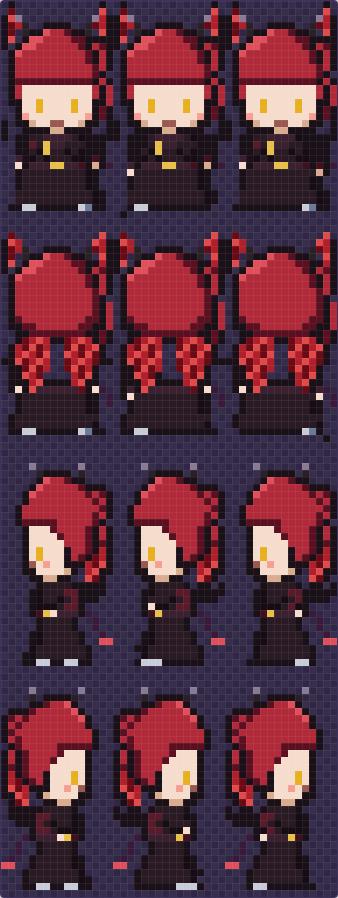
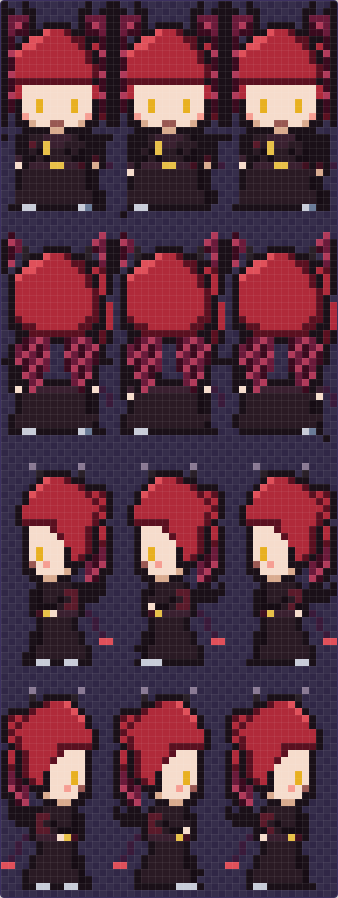
天使と悪魔の羽を、正面からも分かるように描き直す（頭の横に広げた羽の先・体の外側のふち）
Claude-Session: https://claude.ai/code/session_01UB6xythx9vUbZ6SQAjjArV

diff --git a/assets-src/chibi/make_four.py b/assets-src/chibi/make_four.py
@@ -2,7 +2,7 @@
 体は仲間の2頭身の型（女性はアヤメ、男性はレトの体）。髪は heads.py で1から描いた新しい髪型にした（仲間の髪型を使わない）。
 使い方: python3 make_four.py → 各フォルダに walker.json・sheet.txt/json（エディタ用）・sheet.png・sheet_x8.png・walk.gif"""
 import pathlib
-from chibi_parts import Chibi, L, stamp, wing_masks
+from chibi_parts import Chibi, L, stamp, wing_masks, front_wing_masks
 from heads import ELF, ANGEL, DEMON, LORD
 
 HERE = pathlib.Path(__file__).parent
@@ -62,7 +62,9 @@ c.color("F", "#3a8ad8")
 for ch, v in zip("JKLMOPQRSVW", ("#f4f2ea", "#c8b67a", "#ffffff", "#e8e6f0", "#b8b4c8", "#b8a070", "#e8e0c8", "#fff8e8", "#c8b890", "#d8c8a0", "#9a8a60")): c.color(ch, v)
 apply_head(c, ANGEL)
 c.halo(c.new("#ffe680"), c.new("#c89a2a"), gap=3)
-stamp(c, wing_masks(c.new("#f0c860"), c.new("#fff0a0"), c.new("#c8962a"), c.new("#7a5a1a")), over_keys=("up",))   # イメージ画像どおり金の羽
+wi, wl, wd, wo = c.new("#fff4d0"), c.new("#ffffff"), c.new("#d8b052"), c.new("#7a5a1a")   # 髪の金と分けるため、白に近い金
+m = wing_masks(wi, wl, wd, wo); m["down"] = front_wing_masks(wi, wl, wd, wo)   # イメージ画像どおり金の羽。正面からも見える
+stamp(c, m, over_keys=("up", "down"))
 build("天使", "angel", c)
 
 # 3. 悪魔（女性）
@@ -79,7 +81,9 @@ hn, hl = c.new("#2a2028"), c.new("#8a7a94")
 stamp(c, {"down": [(4, 3, hn), (3, 3, hn), (2, 2, hl), (4, 12, hn), (3, 12, hn), (2, 13, hl)],
           "up": [(4, 3, hn), (3, 3, hn), (2, 2, hl), (4, 12, hn), (3, 12, hn), (2, 13, hl)],
           "left": [(4, 5, hn), (3, 5, hn), (2, 4, hl), (4, 10, hn), (3, 11, hn), (2, 11, hl)]})
-stamp(c, wing_masks(c.new("#b0202a"), c.new("#e04a4a"), c.new("#6a0a14"), "A", bat=True), over_keys=("up",))   # イメージ画像どおり赤い羽
+wi, wl, wd = c.new("#6a1a3a"), c.new("#b03a5a"), c.new("#3a0a1e")   # 髪の深紅と分けるため、紫がかった暗い赤
+m = wing_masks(wi, wl, wd, "A", bat=True); m["down"] = front_wing_masks(wi, wl, wd, "A", bat=True)   # イメージ画像どおり赤い羽。正面からも見える
+stamp(c, m, over_keys=("up", "down"))
 c.tail(c.new("#3a1a3a"), c.new("#e0505a"))
 build("悪魔", "demon", c)
 

diff --git a/assets-src/chibi/chibi_parts.py b/assets-src/chibi/chibi_parts.py
@@ -187,3 +187,59 @@ def wing_masks(inner, light, dark, outline, bat=False):
     for y, xs in {1: [1], 2: [0, 1, 2], 3: [0, 1, 2], 4: [0, 1], 5: [0, 1], 6: [0]}.items():
         back += row(y, xs, 0) + row(y, [15 - x for x in xs], 15)
     return {"down": front, "up": back, "left": side}
+
+
+def front_wing_masks(inner, light, dark, outline, bat=False):
+    """正面から羽が分かるように描く（2026-10-07、人間の指示「前から羽がわかるようにしようか」）。
+    頭の横（頭が細い上の方）に、上へ広げた羽の先を大きく描き、そこから肩・腰へ、たたんだ羽のふちを外側1〜2列で下ろす。
+    記号: A 縁取り・w 羽・l 明るい羽根・d 暗い羽根（左側の形。右側は左右反転）"""
+    art = [
+        ".AA..",
+        "AlwA.",
+        "AwwlA",
+        "AwwwA",
+        "Awwd.",
+        "Awd..",
+        "Ad...",
+        "Ad...",
+        "Al...",
+        "Ad...",
+        "Ad...",
+        "Al...",
+        "Ad...",
+        "Ad...",
+        "Al...",
+        "Ad...",
+        "Ad...",
+        "Al...",
+        "Ad...",
+        "A....",
+        "A....",
+    ] if not bat else [
+        "A..A.",
+        "AA.AA",
+        "AwwwA",
+        "AwldA",
+        "Awdd.",
+        "Ad...",
+        "Ad...",
+        "Al...",
+        "Ad...",
+        "Ad...",
+        "Al...",
+        "Ad...",
+        "Ad...",
+        "Al...",
+        "Ad...",
+        "Ad...",
+        "A....",
+        "A....",
+    ]
+    col = {"A": outline, "w": inner, "l": light, "d": dark}
+    pts = []
+    for y, row in enumerate(art):
+        for x, ch in enumerate(row):
+            if ch != ".":
+                pts.append((y, x, col[ch]))
+                pts.append((y, 15 - x, col[ch]))
+    return pts
